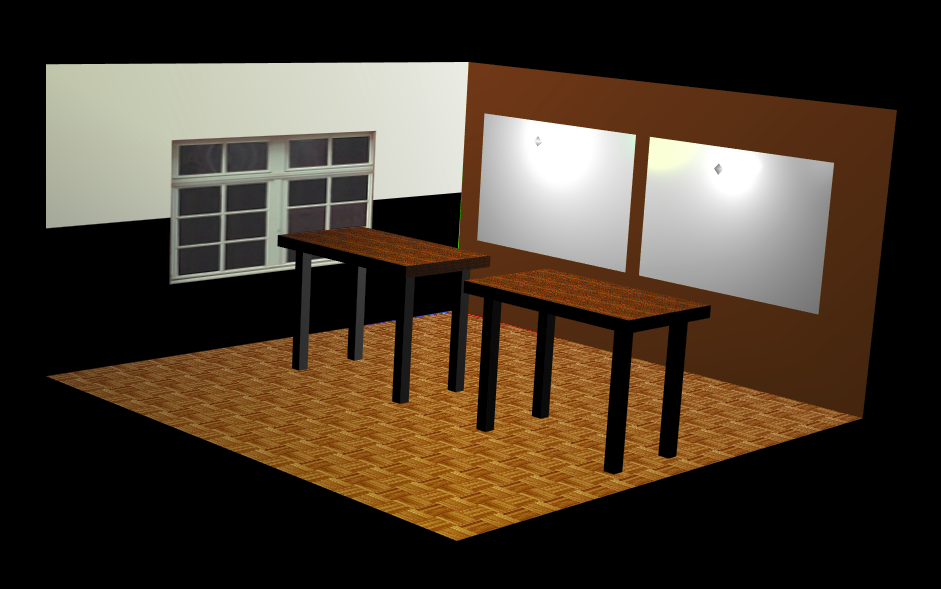
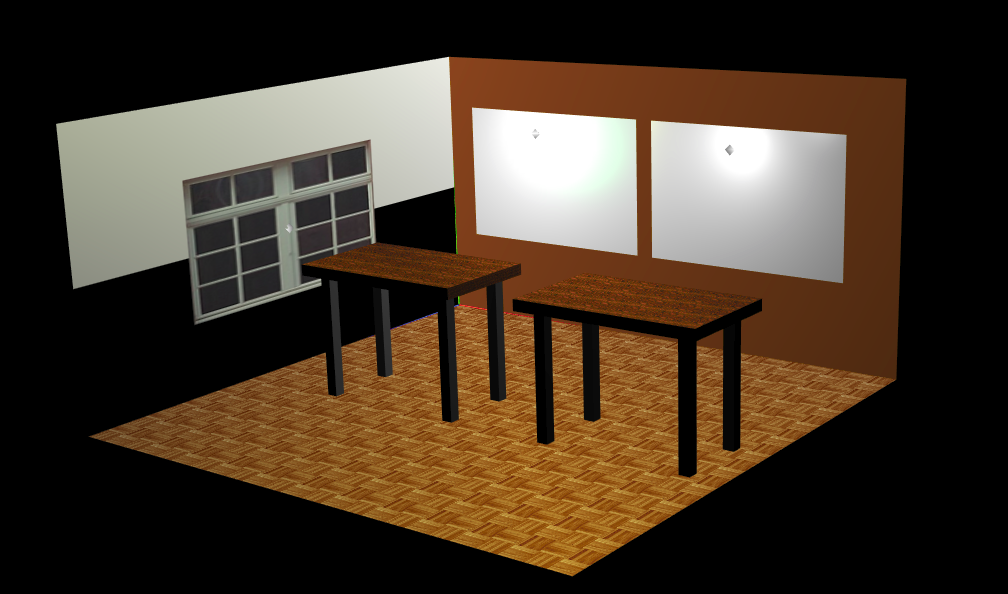
tp4 updated

diff --git a/tp4/LightingScene.js b/tp4/LightingScene.js
@@ -37,11 +37,12 @@ class LightingScene extends CGFscene
 		// Scene elements
 		this.table = new MyTable(this);
 		this.wall = new MyQuad(this,-0.5,1.5,-0.5,1.5);
+		this.plane = new Plane(this,4);
 		this.floor = new MyQuad(this,0,12,0,12);
 		this.prism = new MyPrism(this,N_SLICES,N_STACKS);
 		
-		this.boardA = new Plane(this, BOARD_A_DIVISIONS);
-		this.boardB = new Plane(this, BOARD_B_DIVISIONS);
+		this.boardA = new Plane(this, BOARD_A_DIVISIONS, 512, 512);
+		this.boardB = new Plane(this, BOARD_B_DIVISIONS, 512, 372);
 
 		// Materials
 		this.materialDefault = new CGFappearance(this);
@@ -78,14 +79,28 @@ class LightingScene extends CGFscene
 		this.materialMetal.setShininess(120);
 
 
+
 		// Texture Objects Declaration
 		this.tableAppearance = new CGFappearance(this);
 		this.floorAppearance = new CGFappearance(this);
 		this.windowAppearance = new CGFappearance(this);
+		this.slidesAppearance = new CGFappearance(this);
+		this.boardAppearance = new CGFappearance(this);
 		this.tableAppearance.loadTexture("../resources/images/table.png");
 		this.floorAppearance.loadTexture("../resources/images/floor.png");
 		this.windowAppearance.loadTexture("../resources/images/window.png");
 		this.windowAppearance.setTextureWrap("CLAMP_TO_EDGE","CLAMP_TO_EDGE");
+		this.slidesAppearance.loadTexture("../resources/images/slides.png");
+		this.slidesAppearance.setTextureWrap("CLAMP_TO_EDGE","CLAMP_TO_EDGE");
+		this.boardAppearance.loadTexture("../resources/images/board.png");
+		this.boardAppearance.setTextureWrap("CLAMP_TO_EDGE","CLAMP_TO_EDGE");
+		this.slidesAppearance.setSpecular(0.1,0.1,0.1,1);
+		this.slidesAppearance.setShininess(10);
+		this.slidesAppearance.setDiffuse(0.8,0.8,0.8,1);
+
+		this.boardAppearance.setSpecular(0.5,0.5,0.5,1);
+		this.boardAppearance.setShininess(80);
+		this.boardAppearance.setDiffuse(0.3,0.3,0.3,1);
 
 
 		
@@ -114,7 +129,7 @@ class LightingScene extends CGFscene
 		this.lights[3].setPosition(4, 6.0, 5.0, 1.0);
 		this.lights[1].setVisible(true); // show marker on light position (different from enabled)
 
-        this.lights[4].setPosition(0,4,7.5);
+        this.lights[4].setPosition(0.1,4,7.5,1.0);
         this.lights[4].setVisible(true);
 
 		this.lights[0].setAmbient(0, 0, 0, 1);
@@ -145,9 +160,6 @@ class LightingScene extends CGFscene
 		this.lights[4].setAmbient(0, 0, 0, 1);
 		this.lights[4].setDiffuse(1.0, 1.0, 1.0, 1.0);
 		this.lights[4].setSpecular(1,1,0,1);
-		this.lights[4].setLinearAttenuation(0);
-		this.lights[4].setQuadraticAttenuation(0.2);
-		this.lights[4].setConstantAttenuation(0);
 		this.lights[4].enable();
 	};
 
@@ -214,7 +226,7 @@ class LightingScene extends CGFscene
 			this.translate(7.5, 4, 0);
 			this.scale(15, 8, 0.2);
 			this.materialWood.apply();
-			this.wall.display();
+			this.plane.display();
 		this.popMatrix();
 
 		// First Table
@@ -242,7 +254,8 @@ class LightingScene extends CGFscene
 			this.translate(4, 4.5, 0.2);
 			this.scale(BOARD_WIDTH, BOARD_HEIGHT, 1);
 			
-			this.materialA.apply();
+			//this.materialA.apply();
+			this.slidesAppearance.apply();
 			this.boardA.display();
 		this.popMatrix();
 
@@ -251,7 +264,8 @@ class LightingScene extends CGFscene
 			this.translate(10.5, 4.5, 0.2);
 			this.scale(BOARD_WIDTH, BOARD_HEIGHT, 1);
 			
-			this.materialB.apply();
+			//this.materialB.apply();
+			this.boardAppearance.apply();
 			this.boardB.display();
 		this.popMatrix();
 

diff --git a/tp4/MyCylinder.js b/tp4/MyCylinder.js
@@ -19,42 +19,44 @@ class MyCylinder extends CGFobject
 	{
 		var ang = ang2rad * (360.0/this.slices); 
 
-		this.vertices = [
-		0, 0, 0,
-		];
-
+		this.vertices = [];
 		this.indices = [];
-		this.normals = [0,0,-1];
-
+		this.normals = [];
 
 		//pontos e indices das faces laterais
 		for(var i = 0; i < this.stacks; i++){
 
-			for(var j = 0; j < this.slices; j++){
+			for(var j = 0; j < this.slices - 1; j++){
 				this.vertices.push(Math.cos(j*ang),Math.sin(j*ang),i*(1.0/this.stacks));
-    			//this.vertices.push(Math.cos((j+1)*ang),Math.sin((j+1)*ang),i*(1.0/this.stacks));
-    			this.indices.push(1+(this.slices*i) + j,1+(this.slices*i)+1+j,1+(this.slices*(i+1))+j);
-    			this.indices.push(1+(this.slices*i) + 1 +j,1+(this.slices*(i+1))+j+1,1+(this.slices*(i+1))+j);
     			this.normals.push(Math.cos(j*ang),Math.sin(j*ang),0);
-    			//this.normals.push(Math.cos((j+1)*ang),Math.sin((j+1)*ang),0);
+
+    			this.indices.push((this.slices*i) + j,(this.slices*i)+1+j,(this.slices*(i+1))+j);
+    			this.indices.push((this.slices*i) + 1 +j,(this.slices*(i+1))+j+1,(this.slices*(i+1))+j);
 			}
-    		
+
+			this.vertices.push(Math.cos(j*ang),Math.sin(j*ang),i*(1.0/this.stacks));
+    		this.normals.push(Math.cos(j*ang),Math.sin(j*ang),0);
+			this.indices.push((this.slices*i) + j,(this.slices*i),(this.slices*(i+1))+j);
+    		this.indices.push((this.slices*i),(this.slices*(i+1)),(this.slices*(i+1))+j);
+
 		}
 
 		//iteracao final
-		for(var j = 0; j < this.slices;j++){
+		for(var j = 0; j < this.slices ;j++){
 				this.vertices.push(Math.cos(j*ang),Math.sin(j*ang),1);
     			//this.vertices.push(Math.cos((j+1)*ang),Math.sin((j+1)*ang),1);
     			this.normals.push(Math.cos(j*ang),Math.sin(j*ang),0);
     			//this.normals.push(Math.cos((j+1)*ang),Math.sin((j+1)*ang),0);
 		}
 
+		this.vertices.push(0,0,0);
+		this.normals.push(0,0,-1);
 
 		//tampa z = 0
 		for (var i = 0; i < this.slices; i++) {
     		this.vertices.push(Math.cos(i*ang),Math.sin(i*ang),0);
     		this.vertices.push(Math.cos((i+1)*ang),Math.sin((i+1)*ang),0);
-    		this.indices.push(0,(this.slices * (this.stacks + 1) ) + 1 + (2*i) + 1,(this.slices * (this.stacks + 1) ) + 1 + (2*i));
+    		this.indices.push((this.slices * (this.stacks + 1) ),(this.slices * (this.stacks + 1) ) + 1 + (2*i) + 1,(this.slices * (this.stacks + 1) ) + 1 + (2*i));
     		this.normals.push(0,0,-1);
     		this.normals.push(0,0,-1);
 		}

diff --git a/tp4/Plane.js b/tp4/Plane.js
@@ -2,7 +2,7 @@
 /** Represents a plane with nrDivs divisions along both axis, with center at (0,0) */
 class Plane extends CGFobject{
 
-	constructor(scene, nrDivs) 
+	constructor(scene, nrDivs,xPix, yPix) 
 	{
 		super(scene);
 
@@ -11,6 +11,9 @@ class Plane extends CGFobject{
 
 		this.nrDivs = nrDivs;
 		this.patchLength = 1.0 / nrDivs;
+
+		this.xPix = xPix;
+		this.yPix = yPix;
 
 		this.initBuffers();
 	};
@@ -36,18 +39,25 @@ class Plane extends CGFobject{
 		// Generate vertices and normals 
 		this.vertices = [];
 		this.normals = [];
-		
-		// Uncomment below to init texCoords
-		//this.texCoords = [];
+
+		// Generate texture coordinates
+		this.texCoords = [];
+
+		var ratio = this.xPix/this.yPix;
+
+		var edge = (ratio - 1)/2;
 
 		var yCoord = 0.5;
+		var yTex = 0;
 
 		for (var j = 0; j <= this.nrDivs; j++) 
 		{
 			var xCoord = -0.5;
+			var xTex = -edge;
 			for (var i = 0; i <= this.nrDivs; i++) 
 			{
 				this.vertices.push(xCoord, yCoord, 0);
+				
 				
 				// As this plane is being drawn on the xy plane, the normal to the plane will be along the positive z axis.
 				// So all the vertices will have the same normal, (0, 0, 1).
@@ -55,10 +65,12 @@ class Plane extends CGFobject{
 				this.normals.push(0,0,1);
 
 				// texCoords should be computed here; uncomment and fill the blanks
-				// this.texCoords.push(..., ...);
+				this.texCoords.push(xTex,yTex);
 
+				xTex += this.patchLength * ratio;
 				xCoord += this.patchLength;
 			}
+			yTex += this.patchLength;
 			yCoord -= this.patchLength;
 		}
 		
